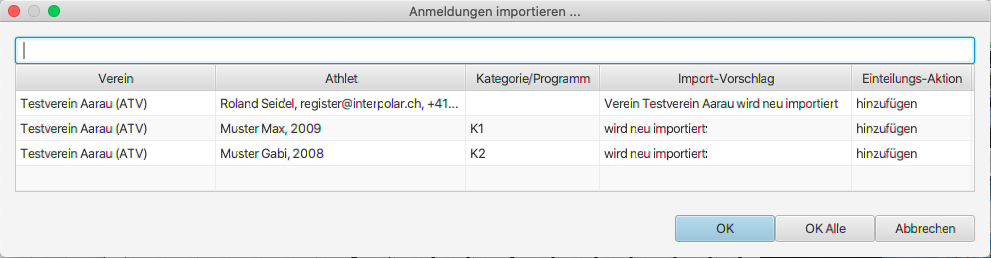
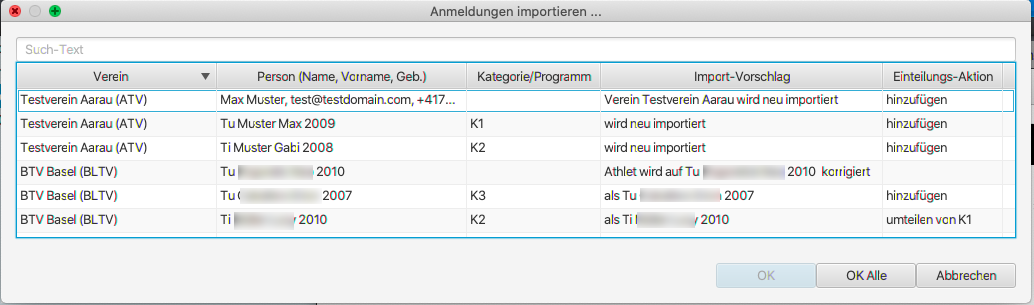
update description for online-register feature

diff --git a/wettkampf-vorbereitung/turneranmeldungen_verarbeiten_online.md b/wettkampf-vorbereitung/turneranmeldungen_verarbeiten_online.md
@@ -10,20 +10,56 @@ Es wird im folgenden zwischen dem Wettkampf lokal gespeichert und dem Wettkampf 
 
 Jeder Verein, der sich an diesem Wettkampf anmelden möchte, muss sich über dieses Online-Formular registrieren, welches sich mit Hilfe des oben erwähnten Links öffnen lässt:
 
-![Online-Registrierung](/assets/verein-registration-form.png)
+![Online-Registrierung](/assets/verein-registration-form-verein-suggest.png)
 
-Anschliessend kann er sowohl seine Turnerinnen und Turner bei der entsprechenden Kategorie als auch
-die Wertungrichter/-Innen in einer separaten Liste anmelden:
+Es ist wichtig, dass der Vereins-Name exakt identisch erfasst wird, so wie er bisher in den vergangenen Wettkämpfen erfasst war.
+
+Um dies sicherzustellen, kann der Vereinsname und Verband über das Suchfeld gesucht und im Formular vorbelegt werden.
+
+Wenn ein neuer Vereinsname verwendet werden soll, ist die Vorbelegungsfunktion nicht relevant.
+
+#### Mutationen an Vereinsname/Verband
+Wenn nach der Registrierung der Vereinsname oder der Verband korrigiert werden, wid dem Wettkampf-Adinistrator die Mutation vorgelegt. Wenn diese angenommen wird, ist die Korrektur durchgägngig durchgeführt. 
+
+**Es ist zu bedenken, dass diese Funktion ausschliesslich als Korrektur-Funktion verstanden werden soll. Eine offizielle Vereins-Namensänderung resp. der Wechsel in einen anderen Verband sollte wie die Erfassung eines neuen Vereins abgewickelt werden.**
+
+![Online-Registrierung](/assets/verein-registration-form-verein.png)
+
+Anschliessend können sowohl die Turnerinnen und Turner bei der entsprechenden Kategorie als auch
+die Wertungrichter/-Innen in einer separaten Liste angemeldet werden:
+
+![Online-Registrierung - nächste Schritte](/assets/verein-registration-form-next-steps.png)
+
+
+Die möglichen Optionen sind:
+
+1) Athlet & Athletinnen erfassen.
+2) Wertungsrichter erfassen.
+3) Daten aus einer frühereren Anmeldung kopieren. Diese Option ist nur verfügbar, wenn der Verein bereits einmal online Anmeldungen getätigt hat und die aktuelle Registrierung vom Wettkampf-Administrator bestätigt wurde.
+4) Die Registrierung wird komplett gelöscht. Alle Daten zu den erfassten Athleten/-Innen und Wertungsrichter sind danach gelöscht.
+5) Abbrechen - Das Anmeldungen-Menü wird zugeklappt.
+
+#### Formular für die Anmeldung von Turner/-Innen
 
 ![Online-Turner-Registrierung](/assets/turner-registration-form.png)
+
+Das Erfassungsformular bietet eine Auswahl bisher erfasster Vereinsturner/-Innen aus früheren Wettkämpfen an. Neue Turner können auch direkt im Formular erfasst werden. Wenn die Vereins-Registrierung am Wettkampf noch nicht vom Wettkampf-Administrator bestätigt wurde, steht diese Liste nicht zur Verfügung.
+
+In diesem Formular können auch Mutationen an den personen-bezogenen Daten gemacht werden. Dies nach dem Grundsatz, dass Daten korrekt erfasst sein müssen. Wenn Mutationen an Personen-Daten gemacht werden, die noch nicht in der zentralen Datenbank übernommen wurden, ist das Speichern der Änderung ohne Warndialog möglich. Sobald es aber Daten sind, die z.B. über den Auswahl-Dialog übernommen wurden, oder die vom Wettkampf-Administrator bestätigt wurden, betreffen die Mutationen auch die bisher in der zentralen Datenbank gespeicherten Daten zu dieser Person. In diesem Fall wird folgender Warndialog angezeigt:
+
+![Warn-Dialog Person überschreiben/korrigieren](/assets/turner-registration-form-person-override.png)
+
+Die Mutation wird dem Wettkampf-Administrator vorgelegt. Dieser kann die Mutation übernehmen oder ablehnen. Im Fall der Ablehnung bleibt die Mutation ohne weiteren Hinweise im Status `pending`.
 
 Nach der Erfassung der Anmeldungen kann der Vereins-Verantwortliche in der Liste überwachen, ob seine Anmeldung in die Wettkampf-Einteilung übernommen wurde. 
 
 ![Status-Registrierung](/assets/status-registration.png)
 
-Solange das noch nicht der Fall ist, wird der Status `pending`angezeigt. Sobald die Anmeldung berücksichtigt wurde, wird der Status `in sync`angezeigt.
+Solange das noch nicht der Fall ist, wird der Status `pending` angezeigt. Sobald die Anmeldung berücksichtigt wurde, wird der Status `in sync` angezeigt. Dies gilt auch für spätere Mutationen.
 
 Auf der Maske der Vereinsanmeldung ist auch im Detail ersichtlich, welche Mutationen noch pendent sind.
+
+![Pendente Mutationen](/assets/verein-registration-form-pending-changes.png)
 
 ### Abgleich der Online-Anmeldungen mit den Wettkampf-Einteilungen {#sync-registrations}
 
@@ -37,15 +73,17 @@ Mit der Funktion `Online Anmeldungen importieren` (bei der Wettkampf-Übersicht)
 
 ![Synchronisierung Online-Anmeldungen](/assets/pending-sync-actions.png)
 
-Wenn ein Verein nicht bereits in der lokalen Datenbank gespeichert ist, wird auch dessen übernahme notwendig, weil sonst dessen Anmeldungen nicht verarbeitet werden. Bereits bestehende Vereine werden erkannt und müssen nicht jedesmal neu importiert werden.
+Wenn ein Verein nicht bereits in der lokalen Datenbank gespeichert ist, wird auch dessen Übernahme/ notwendig, weil sonst dessen Anmeldungen nicht verarbeitet werden. Bereits bestehende Vereine werden erkannt und müssen nicht jedesmal neu importiert werden.
 
 Folgende Mutations-Aktionen werden unterstützt:
 
 |Aktion|Beschreibung|
 |-|-|
 |Verein importieren|Ein neuer Verein kann importiert werden. Um zu verhindern, dass sich Fake-Anmeldungen automatisch in der Datenbank einnisten, muss die initiale Übernahme vom Wettkampf-Administrator bestätigt werden.|
+| Verein bestätigen | Eine neue Vereins-Wettkampfregistrierung eines bestehenden Vereins kann bestätigt werden. Um zu verhindern, dass sich Fake-Anmeldungen den Zugang zu bestehenden Vereinsdaten eines existierenden Vereins erschleichen, muss die eine Vereins-Registrierung zu einem Wettkampf vom Wettkampf-Administrator bestätigt werden. |
+|Verein korrigieren|Name und Verband eines bestehenden Vereins werden korrigiert.|
 |Hinzufügen|Teilt den Athlet beim angegebenen Programm/Kategorie ein. Unter Import-Vorschlag wird angezeigt, ob der Athlet neu importiert wird, oder ob er in der Datenbank gefunden werden konnte und desshalb wiederverwendet werden kann.|
-|Umteilen|Verschieb den Athlet von einem Programm/Kategorie in ein anderes Programm/Kategorie|
+|Umteilen|Verschiebt den Athlet von einem Programm/Kategorie in ein anderes Programm/Kategorie|
 |Entfernen|Entfernt den angegebenen Athlet aus dem Wettkampf. Die Entfernen-Aktion entfernt nicht den Athlet beim Verein.|
 
 Wenn die Mutationen erfolgreich durchgeführt werden konnten, wird dies mit folgender Meldung bestätigt:
